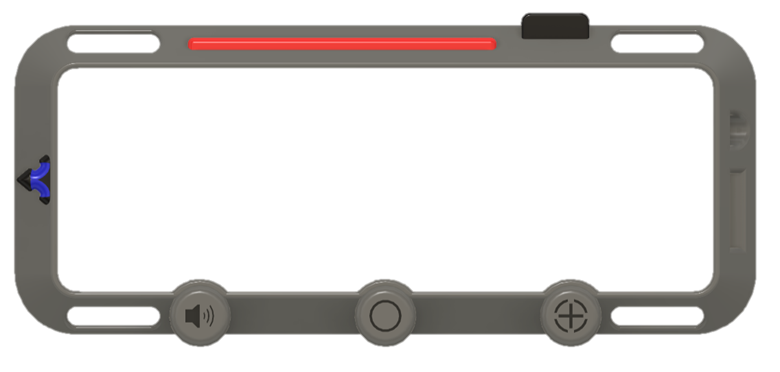
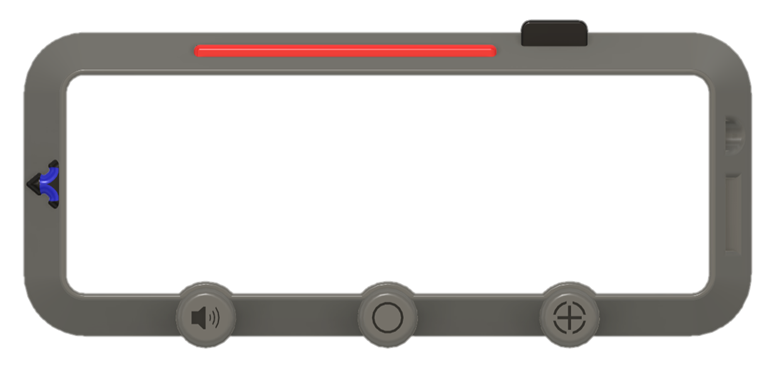
Add files via upload

Changed region(s): [[0.0, 0.0296, 0.9846, 0.9462], [0.4615, 0.7392, 0.5231, 0.7688]]

diff --git a/design.css b/design.css
@@ -96,10 +96,12 @@
     position: fixed;
     top: 0;
     left: 0;
-    width: 100%;
-    height: 100%;
+    width: 110%;
+    height: 80%;
     overflow: hidden; /* Prevent scrolling the page itself */
     background: url('Astral_Sea.jpg') center center / cover no-repeat; /* Background behind the map */
+    background-color: gray;
+    transform: translate(-5%, 13%);
 }
 
 /* Map container for zooming and panning */
@@ -176,32 +178,32 @@
     display: none; /* Hidden by default */
     opacity: 1;
 }
-
+/*
 #border-frame {
     position: fixed;
     top: 0;
     left: 0;
-    width: 100vw;
-    height: 100vh;
-    border: 40px solid steelblue; /* Steel-colored border */
-    box-sizing: border-box; /* Ensure the border is included in the dimensions */
-    pointer-events: none; /* Prevent interaction with the border */
-    z-index: 10000; /* Ensure it overlays everything */
-}
+    width: 100px;
+    height: 100px;
+    border: 100px solid steelblue; /* Steel-colored border *//*
+    box-sizing: border-box; /* Ensure the border is included in the dimensions *//*
+    pointer-events: none; /* Prevent interaction with the border *//*
+    z-index: 10000; /* Ensure it overlays everything *//*
+}*/
 
-/* Border frame for image
+
 #border-frame {
     position: fixed;
-    top: 0;
-    left: 0;
-    width: 100vw;
-    height: 100vh;
-    border: 40px solid transparent; /* Make border transparent *//*
-    background: url('path-to-your-image.png') center center / cover no-repeat; /* Use an image as the border *//*
+    top: 12px;
+    left: 8px;
+    width: 100%;
+    height: 100%;
+    scale: 120%;
+    background: url('Portal Watch Border 2 Edited.png') center center / cover no-repeat; /* Use an image as the border */
     box-sizing: border-box;
     pointer-events: none;
-    z-index: 100;
-} */
+    z-index: 10000;
+}
 
 .world_name {
     font-family: 'Trebuchet MS', 'Lucida Sans Unicode', 'Lucida Grande', 'Lucida Sans', Arial, sans-serif;

diff --git a/index.html b/index.html
@@ -32,6 +32,8 @@
         <div id="overlay-menu" class="hidden">
             <br>
             <br>
+            <br>
+            <br>
             <button id="close-menu">X</button>
             <h2 class="world_name" id="world-name"></h2>
             <p class="world_description" id="world-description"></p>
@@ -43,6 +45,9 @@
             <p class="worldinfo" id="rifts"></p>
             <h3 class="worldinfo_header">Merge Points:</h3>
             <p class="worldinfo" id="merge_points"></p>
+            <br>
+            <br>
+            <br>
             <br>
             <br>
             <br>
